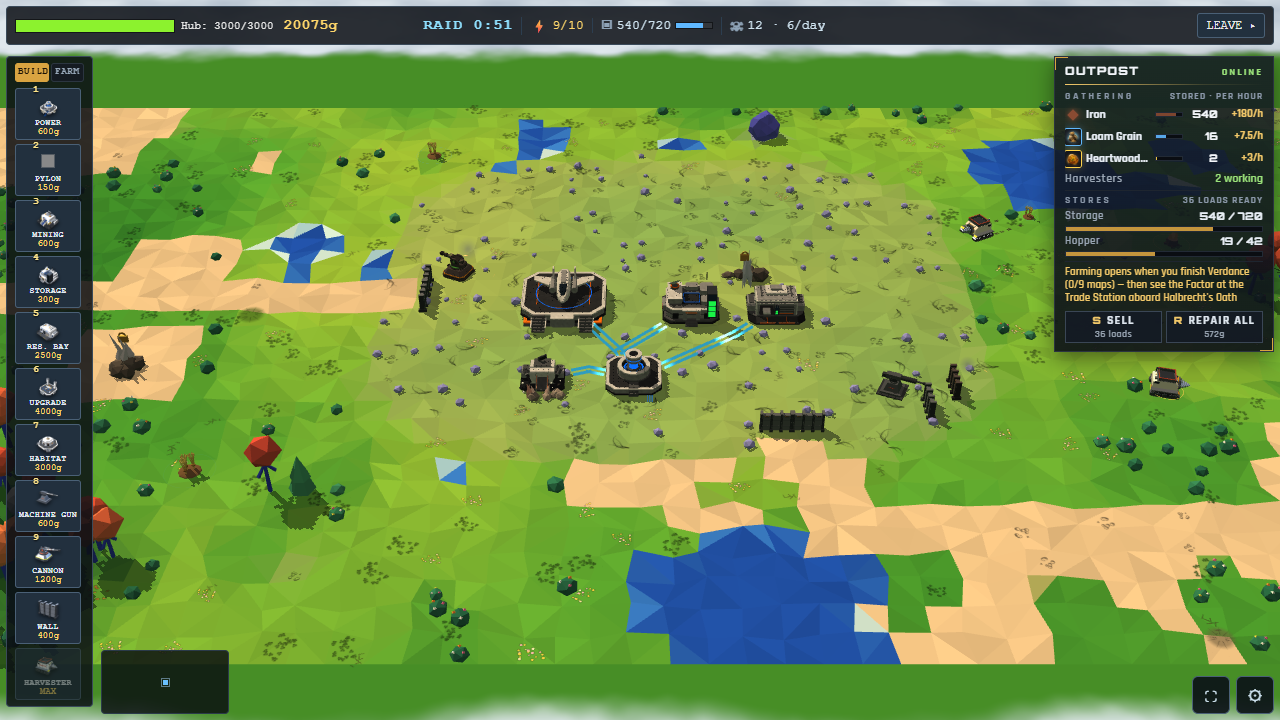
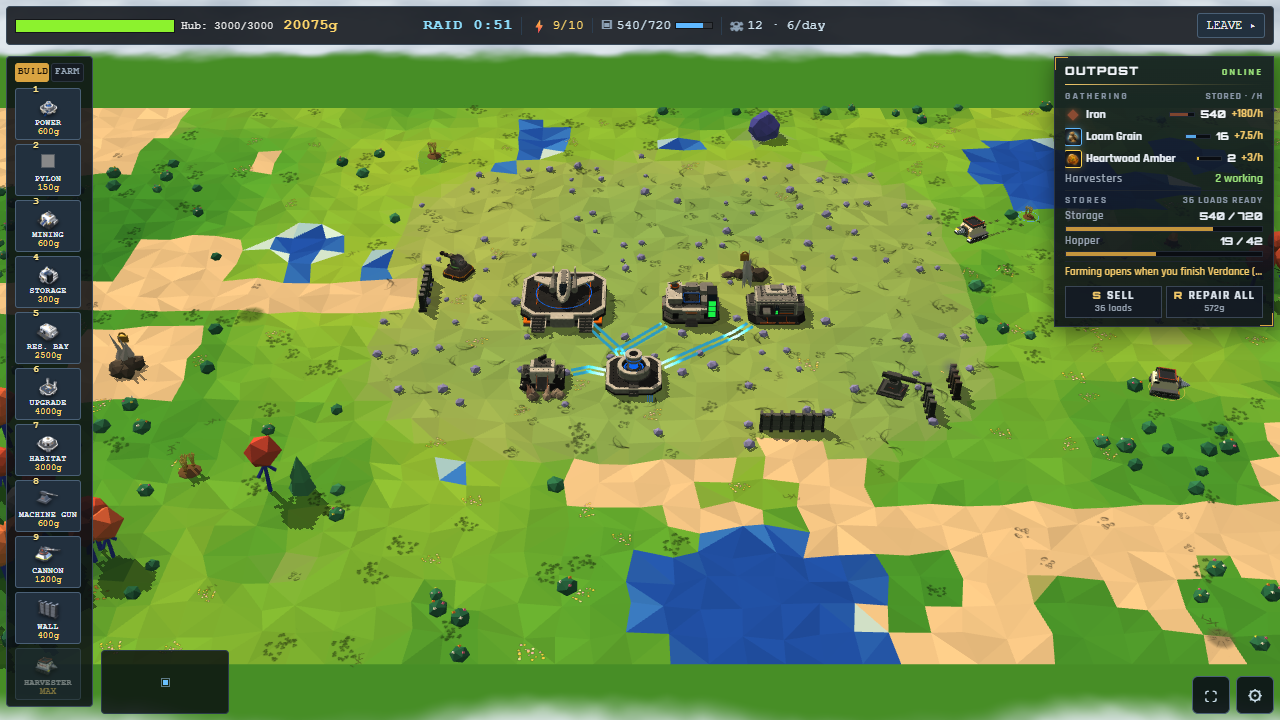
Outpost card: no clipped values at 844x390
Review of the 844x390 capture: the card's right edge clipped the rate column (+180/h read "+180/I"), the
storage/hopper values and the section asides. The card body no longer shows a scrollbar (it still scrolls), the
resource row's unit and rate columns take their full width (only the name ellipsises, the bar shrinks), gauge
values never wrap, and the farm gate is one line on the card with the full text as its title (owner Q2).
Headless check at 844x390 and 1280x720: no value cell has scrollWidth > clientWidth or passes the card's edge.

[MM-story_mwcuyrqr_3j]

Claude-Session: https://claude.ai/code/session_018jeYUopZdFVkz1KsHYmceV

diff --git a/prototype/test-game/src/render/hudCard.js b/prototype/test-game/src/render/hudCard.js
@@ -18,7 +18,7 @@
  *   items:  [{ name, icon (resource icon id) | null, colour, units, rate, rateTone, pct }]   a resource row: icon · name · bar · units · rate
  *   rows:   [[key, value, tone?]]                                                a key / value line
  *   gauges: [{ label, value, pct, tone }]                                         a labelled fill bar (storage, hopper)
- *   lines:  [{ text, tone }]                                                      a note
+ *   lines:  [{ text, tone, oneLine }]                                             a note (oneLine: one line, full text as its title)
  * tone: 'ok' | 'warn' | 'bad' | 'info' | 'gold' | 'dim' (absent = ink). Pure builders (hudCardModel, hudCardHtml) for tests.
  */
 import { AAA_PANEL_BG, AAA_FONT_BODY, AAA_FONT_NUM, aaaTicksCss } from './uiTokens.js';
@@ -48,19 +48,23 @@ ${aaaTicksCss('.bw-card', 12, 'var(--gold)')}
 .bw-card-rule { height:1px; margin:1px 0 2px; background:linear-gradient(90deg, var(--gold-hi), rgba(242,200,105,.15) 70%, transparent); }
 .bw-card-sec { display:flex; flex-direction:column; gap:3px; }
 .bw-card-sec + .bw-card-sec { border-top:1px solid #1e252f; padding-top:4px; }
-.bw-card-h { display:flex; justify-content:space-between; gap:6px; font-size:9.5px; font-weight:700; letter-spacing:.3em; color:var(--steel); text-transform:uppercase; }
+.bw-card-h { display:flex; justify-content:space-between; gap:6px; min-width:0; font-size:9.5px; font-weight:700; letter-spacing:.24em; color:var(--steel); text-transform:uppercase; white-space:nowrap; }
 .bw-card-h span:last-child { letter-spacing:.12em; }
 .bw-card-line { font-size:12px; color:#d6dce4; }
-.bw-card-line.t-gold { font-size:11px; line-height:1.2; }
+.bw-card-line.one { font-size:11px; overflow:hidden; text-overflow:ellipsis; white-space:nowrap; }   /* a one-line note: the full text is its title */
 .bw-card-kv { display:flex; justify-content:space-between; gap:8px; font-size:12px; }
 .bw-card-kv .k { color:#9aa6b4; letter-spacing:.04em; }
 .bw-card-kv .v { color:#e8eef5; text-align:right; font-variant-numeric:tabular-nums; }
 .bw-card-num { font-family:${AAA_FONT_NUM}; font-weight:800; font-size:10.5px; letter-spacing:.02em; font-variant-numeric:tabular-nums; color:#f4f7fb; }
-.bw-card-item { display:grid; grid-template-columns:16px minmax(0,1fr) 28px minmax(30px,auto) 40px; align-items:center; gap:0 5px; min-height:19px; }
+/* a resource row: only the name ellipsises and the bar shrinks; the numbers always show whole */
+.bw-card-item { display:grid; grid-template-columns:16px minmax(0,1fr) minmax(12px,26px) max-content max-content; align-items:center; gap:0 5px; min-height:19px; }
 .bw-card-item .ic { width:16px; height:16px; border-radius:2px; box-shadow:0 0 0 1px var(--c), 0 0 8px color-mix(in srgb, var(--c) 45%, transparent); }
 .bw-card-item .d { width:8px; height:8px; margin-left:4px; background:var(--c); box-shadow:0 0 6px var(--c); transform:rotate(45deg); }
 .bw-card-item .n { font-size:12px; font-weight:700; color:#e8eef5; overflow:hidden; text-overflow:ellipsis; white-space:nowrap; }
-.bw-card-item .q { text-align:right; }
+.bw-card-item .q { text-align:right; white-space:nowrap; }
+.bw-card-kv .k { min-width:0; overflow:hidden; text-overflow:ellipsis; white-space:nowrap; }
+.bw-card-kv .v { flex:0 0 auto; white-space:nowrap; }
+.bw-card-sec > .bw-card-kv .v {   /* a section row may wrap; a gauge value never does */ flex:0 1 auto; white-space:normal; }
 .bw-card-item .r { text-align:right; font-size:10.5px; font-weight:700; letter-spacing:.02em; color:var(--gold-hi); white-space:nowrap; font-variant-numeric:tabular-nums; }
 .bw-card-item .r.t-dim { color:#7d8896; }
 .bw-card-bar { height:5px; background:#0a0d12; border:1px solid #222a35; overflow:hidden; }
@@ -114,7 +118,7 @@ export function hudCardBodyHtml(m) {
     x.items.map(itemHtml).join('') +
     x.rows.map((r) => '<div class="bw-card-kv"><span class="k">' + esc(r[0]) + '</span><span class="v' + tone(r[2]) + '">' + esc(r[1]) + '</span></div>').join('') +
     x.gauges.map(gaugeHtml).join('') +
-    x.lines.map((l) => '<div class="bw-card-line' + tone(l.tone) + '">' + esc(l.text) + '</div>').join('') + '</div>').join('');
+    x.lines.map((l) => '<div class="bw-card-line' + tone(l.tone) + (l.oneLine ? ' one' : '') + '"' + (l.oneLine ? ' title="' + esc(l.text) + '"' : '') + '>' + esc(l.text) + '</div>').join('') + '</div>').join('');
 }
 
 /** The whole card's markup (tests and the review page; the live card renders the same pieces into its elements). Pure. */

diff --git a/prototype/test-game/src/outpost/view/outpostCard.js b/prototype/test-game/src/outpost/view/outpostCard.js
@@ -110,7 +110,7 @@ export function outpostCardModel(o, map, { planet = o.planet, gold = 0, now = o.
   const rows = gatheringRows(o, map, planet);
   const items = rows.map((r) => ({ name: r.name, icon: r.icon, colour: r.colour, units: fmtUnits(r.units), pct: r.pct * 100,
     rate: r.full ? 'FULL' : r.parked ? 'OFF' : r.perHour > 0 ? fmtPerHour(r.perHour) : '—', rateTone: r.full ? 'bad' : (r.parked || !(r.perHour > 0)) ? 'dim' : null }));
-  const gather = { head: 'Gathering', aside: 'stored · per hour', items, rows: [], gauges: [], lines: [] };
+  const gather = { head: 'Gathering', aside: 'stored · /h', items, rows: [], gauges: [], lines: [] };
   if (!items.length) gather.lines.push({ text: 'Nothing mined yet: build a Mining Station on a deposit.', tone: 'dim' });
   const trucks = harvesterCounts(live);
   if (trucks.total) gather.rows.push(['Harvesters', trucks.waiting ? `${trucks.working} working · ${trucks.waiting} waiting (${WAIT_WORD[trucks.why] || 'idle'})` : `${trucks.working} working`, trucks.waiting ? 'warn' : 'ok']);
@@ -120,7 +120,7 @@ export function outpostCardModel(o, map, { planet = o.planet, gold = 0, now = o.
   if (h.hopper) stores.gauges.push({ label: 'Hopper', value: `${fmtUnits(h.hopper.units)} / ${fmtUnits(h.hopper.cap)}`, pct: h.hopper.frac * 100, tone: fillTone(h.hopper.frac) });
   const notes = { lines: [] };
   if (!h.online) notes.lines.push(issues.length ? { text: `To go online: ${issues.join('; ')}`, tone: 'warn' } : { text: 'Ready to go online. Raiders will come.', tone: 'info' });
-  if (gate) notes.lines.push({ text: gate, tone: 'gold' });
+  if (gate) notes.lines.push({ text: gate, tone: 'gold', oneLine: true });   // one line on the card; the whole text is its title (and the FARM tab's padlocks)
   const actions = [];
   if (!h.online) actions.push({ label: 'Go online', primary: true, wide: true, enabled: !issues.length, title: issues.length ? 'Go online: ' + issues.join('; ') : '', run: () => act({ type: 'online' }) });
   const sb = sellButton(h);
